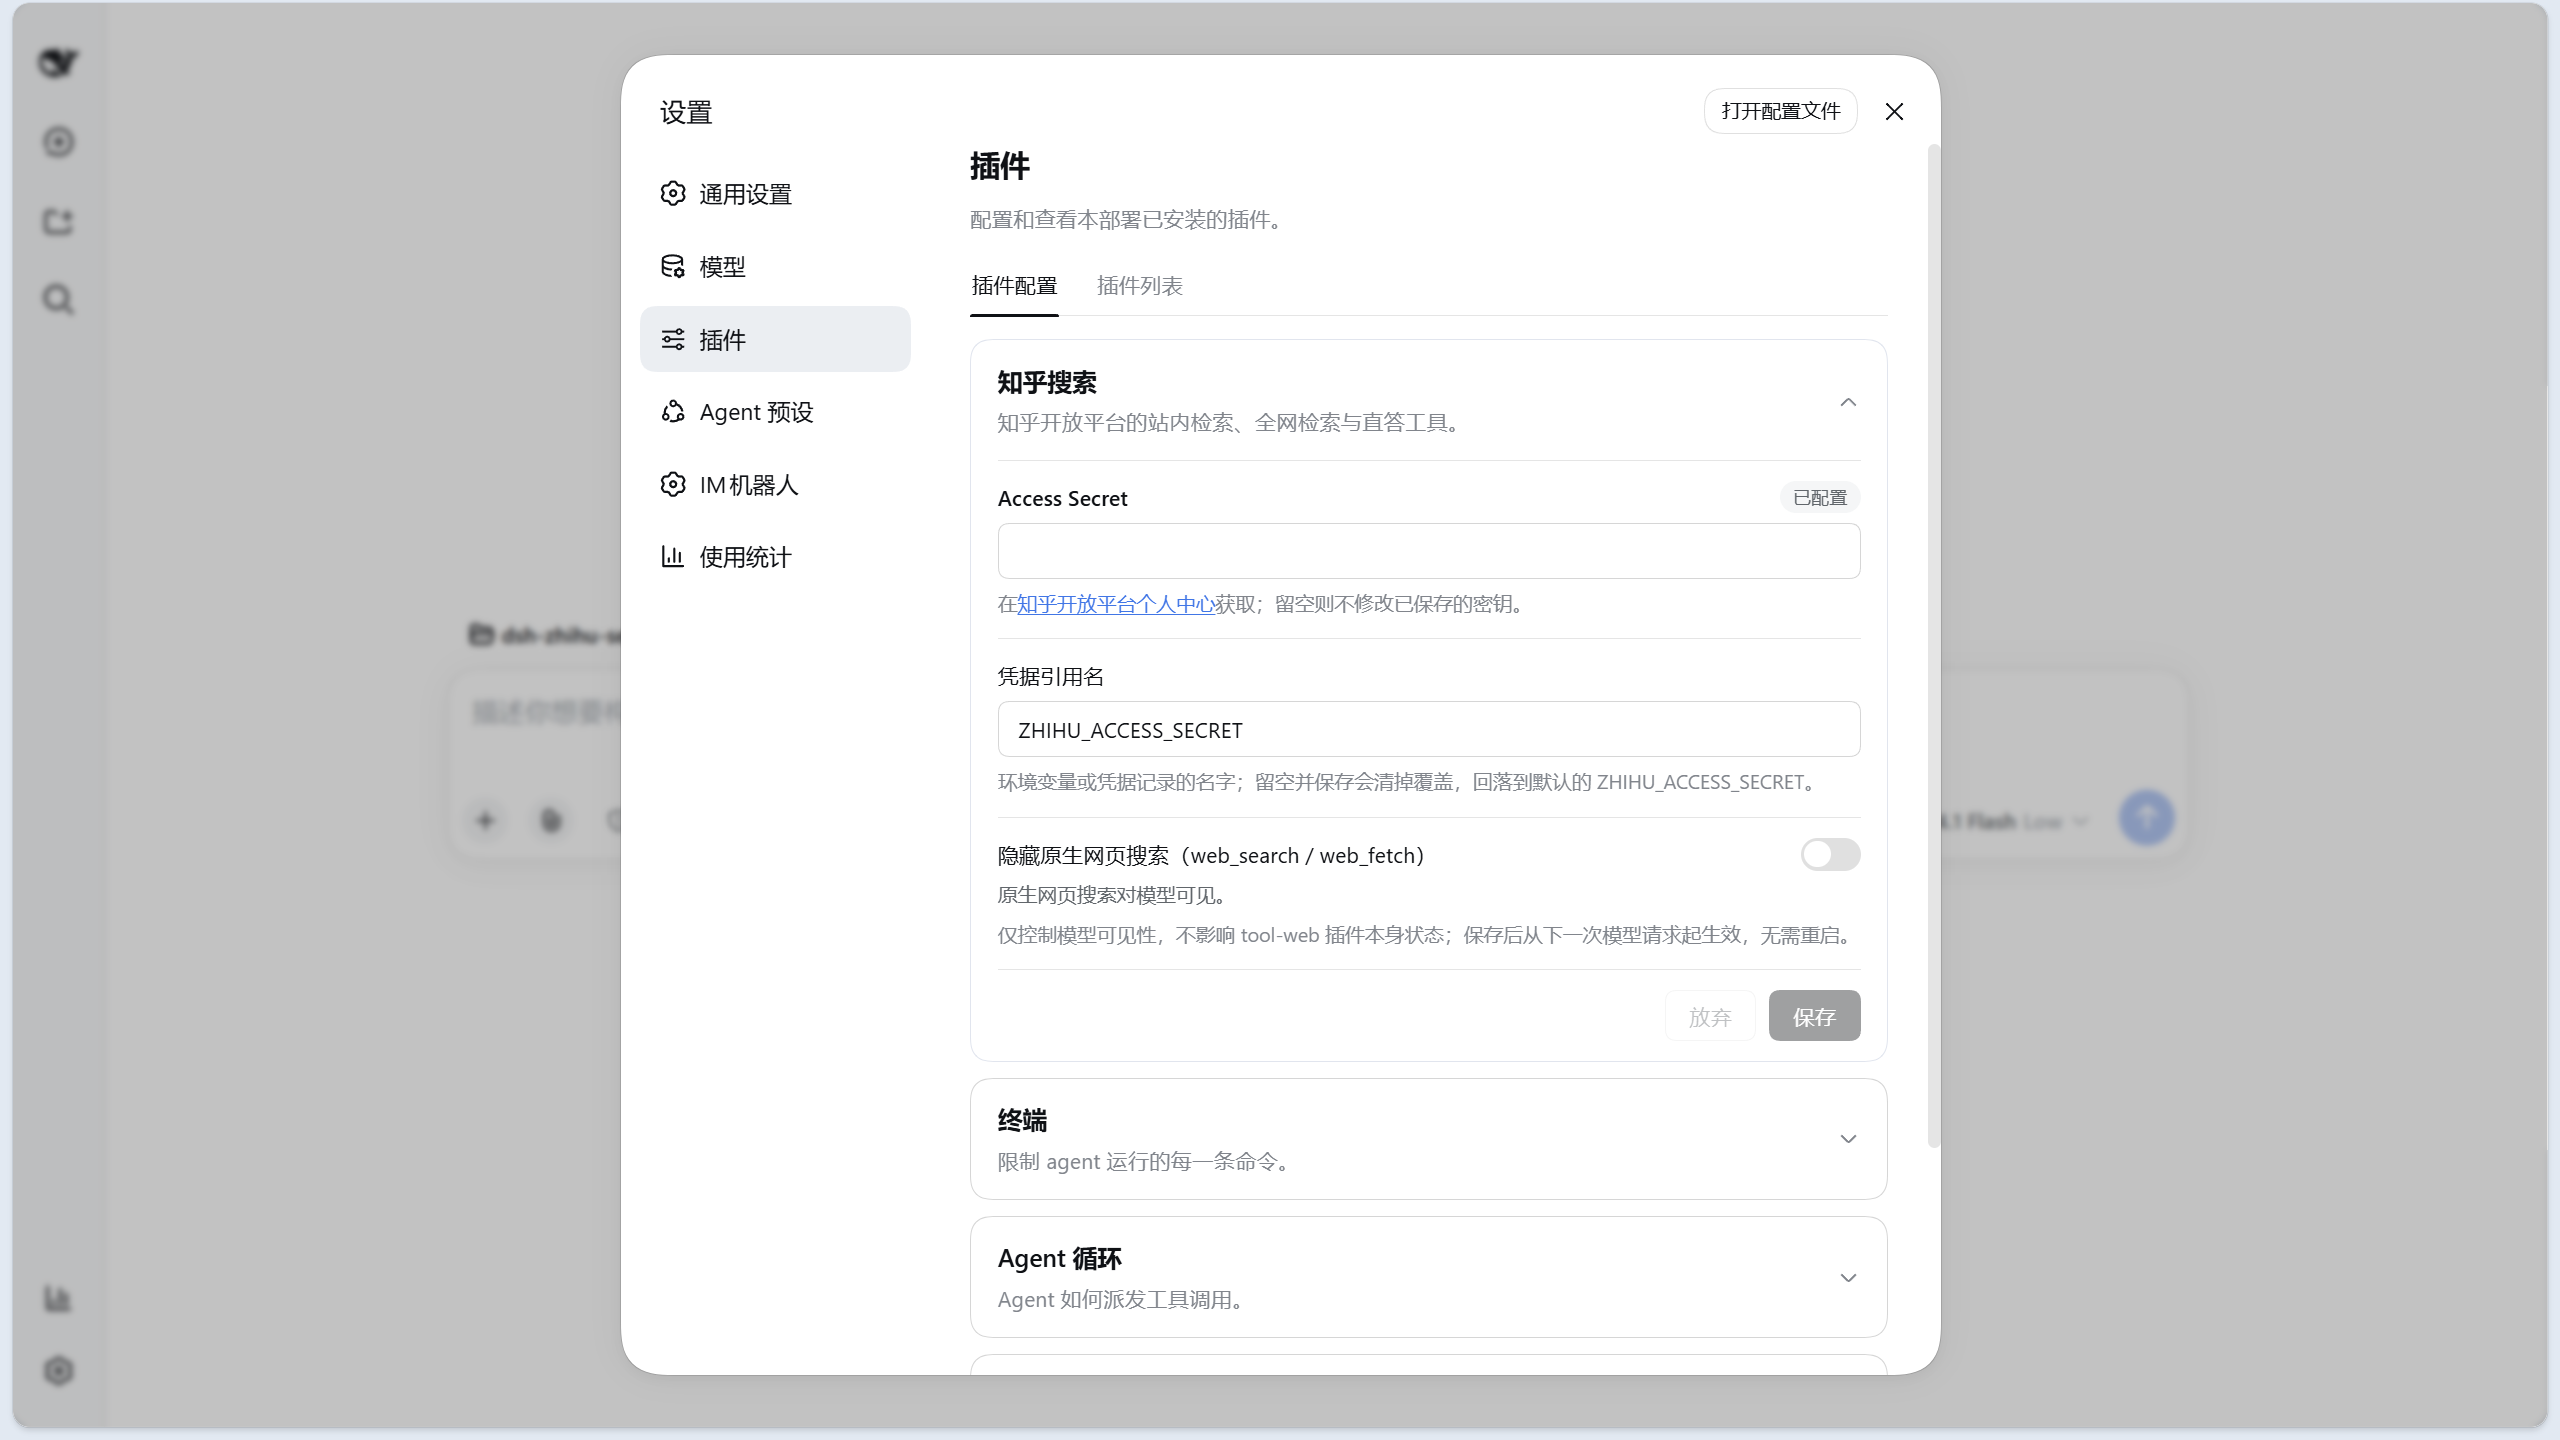
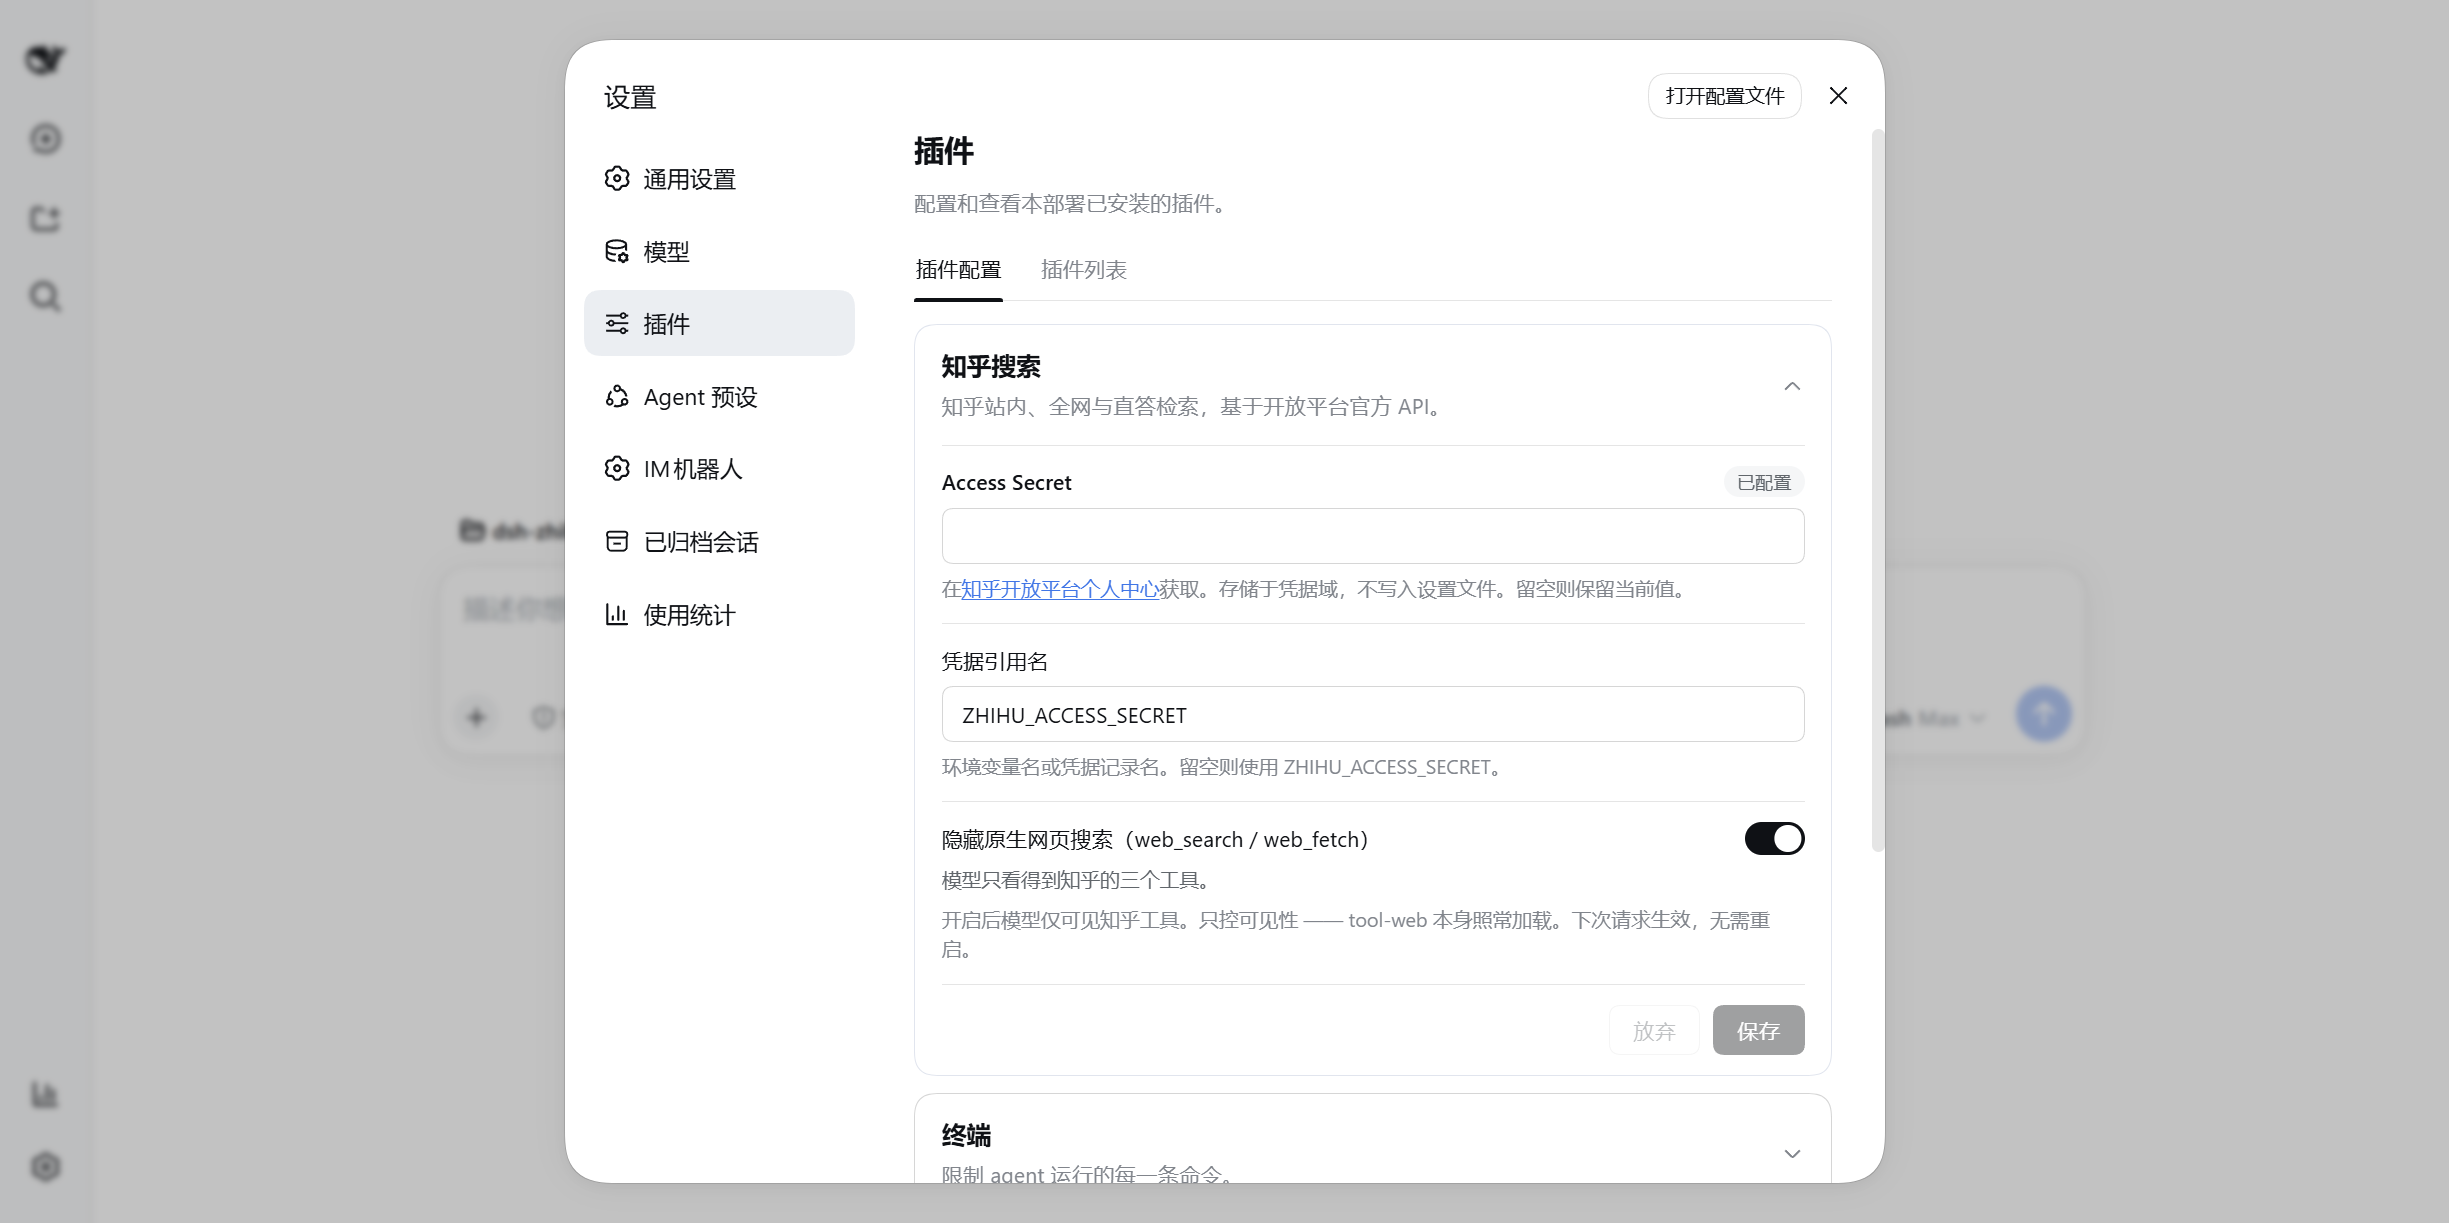
docs: 重截卡片图（压缩后的文案）+ 截图规则两处细化
f5ce05a 压了四段说明文案，两张卡片图当时仍是旧文案（body 里记了这笔欠账）。现在按
assets/AGENTS.md 的流程重截，欠账清掉。

图：

- settings-card.png（中）与 settings-card_en.png（英）：2449×1223，两张只差界面语言
- 拍摄状态：新会话背景 · 左右侧边栏收起 · 浅色主题 · 卡片展开 · 开关照现状（ON，不拨）

规则两处细化（维护者本轮定的）：

- **用自己的标签页**：agent 端点新开页面打开 GUI 即可，与原标签页并存、登录态照常；
  整轮没动维护者那个标签页，结束时关掉自己的
- **第 0 步的问要写清冻结项**：截图会改全局设置（语言等），所以问的时候要说明
  「截图期间请别改语言 / 主题 / 模型等全局设置」，否则会直接进画面
- 尺寸基准去像素化：维护者定「不写死像素，只截页面内容（不含浏览器标签栏 / 书签栏）」；
  实测 agent 端点进不了浏览器全屏（浏览器域 CDP 被 TabbitDance 拒、`--foreground` 不是
  合法参数、Fullscreen API 返回 `not granted`），旧图的整屏尺寸不可复现

流程第一次实跑完整：先问（question 工具）→ 确认后动手 → 交还（关面板、关自己的标签页、
语言切回英文原状、当前会话切回维护者原来那个）。校验：check-links 415 链接 0 错误，
check-line-endings 183 文件 0 不一致。

纯 assets + .md → Q0 否 → 不发版，搭下次发布的车。

diff --git a/assets/AGENTS.md b/assets/AGENTS.md
@@ -32,16 +32,21 @@
 
 ## 怎么截
 
-截图会**占用维护者的浏览器**，所以第 0 步是问，不是动手。
+截图会改**全局设置**（语言等），所以第 0 步是问，不是动手。
 
-0. **先问再动**：用 question 工具说明「占用浏览器几分钟 + 会临时切界面语言 + 结束切回」，**等维护者确认**。
-1. **开一个新会话**当背景：有内容的会话会把标题、工作区名留在图里。
-2. 收起**左右两侧边栏**；收起后**不再动任何别的东西**。
-3. 窗口**最大化**，主题用**浅色**。
-4. 打开「设置 → 插件 → 插件配置」，**展开**知乎搜索卡片，滚到卡片完整可见（底部「放弃 / 保存」必须在图内）。
-5. **开关状态照现状拍**：拨它会带出「未保存」标记，真保存又改了维护者的真实配置。
-6. 先拍中文，再临时把界面语言切成 English 拍英文，然后**把语言切回原状**。
-7. **交还浏览器**：关掉设置面板、回到维护者原来所在的标签页与视图，并明确告诉他可以用了。
+0. **先问再动**，问的时候说清三件事，再等维护者确认：
+   - 要占用浏览器几分钟；
+   - 会临时切界面语言，结束切回；
+   - **截图期间请别改语言 / 主题 / 模型等全局设置** —— 它们直接进画面。
+1. **用自己的标签页，不动维护者的标签页**：agent 端点新开一个页面打开 GUI 即可（实测与原标签页并存、登录态照常），结束时关掉它。
+2. **开一个新会话**当背景：有内容的会话会把标题、工作区名留在图里。
+3. 收起**左右两侧边栏**；收起后**不再动任何别的东西**。
+4. 窗口给足尺寸即可（不追求特定像素），主题用**浅色**；截图只取页面内容，不含浏览器标签栏 / 书签栏。
+   整屏尺寸拿不到：agent 端点进不了浏览器全屏（浏览器域 CDP 被 TabbitDance 拒、`--foreground` 不是合法参数、Fullscreen API 返回 `not granted`）。
+5. 打开「设置 → 插件 → 插件配置」，**展开**知乎搜索卡片，滚到卡片完整可见（底部「放弃 / 保存」必须在图内）。
+6. **开关状态照现状拍**：拨它会带出「未保存」标记，真保存又改了维护者的真实配置。
+7. 先拍中文，再临时把界面语言切成 English 拍英文，然后**把语言切回原状**。
+8. **交还**：关掉设置面板 → 关掉自己的标签页 → 把当前会话切回维护者原来那个（会话选择会被记住，下次开页面落在它上面）→ 告诉他可以用了。
 
 ## 验收
 

diff --git a/assets/README.md b/assets/README.md
@@ -18,7 +18,7 @@
 
 | 项 | 基准 |
 | --- | --- |
-| 尺寸 | 2560×1440（全窗口，不是卡片特写） |
+| 尺寸 | 不写死像素：只截页面内容（不含浏览器标签栏 / 书签栏），随窗口实测视口，中英两张一致 |
 | 侧边栏 | 左右都收起 |
 | 背景 | 空会话 |
 | 主题 | 浅色 |
